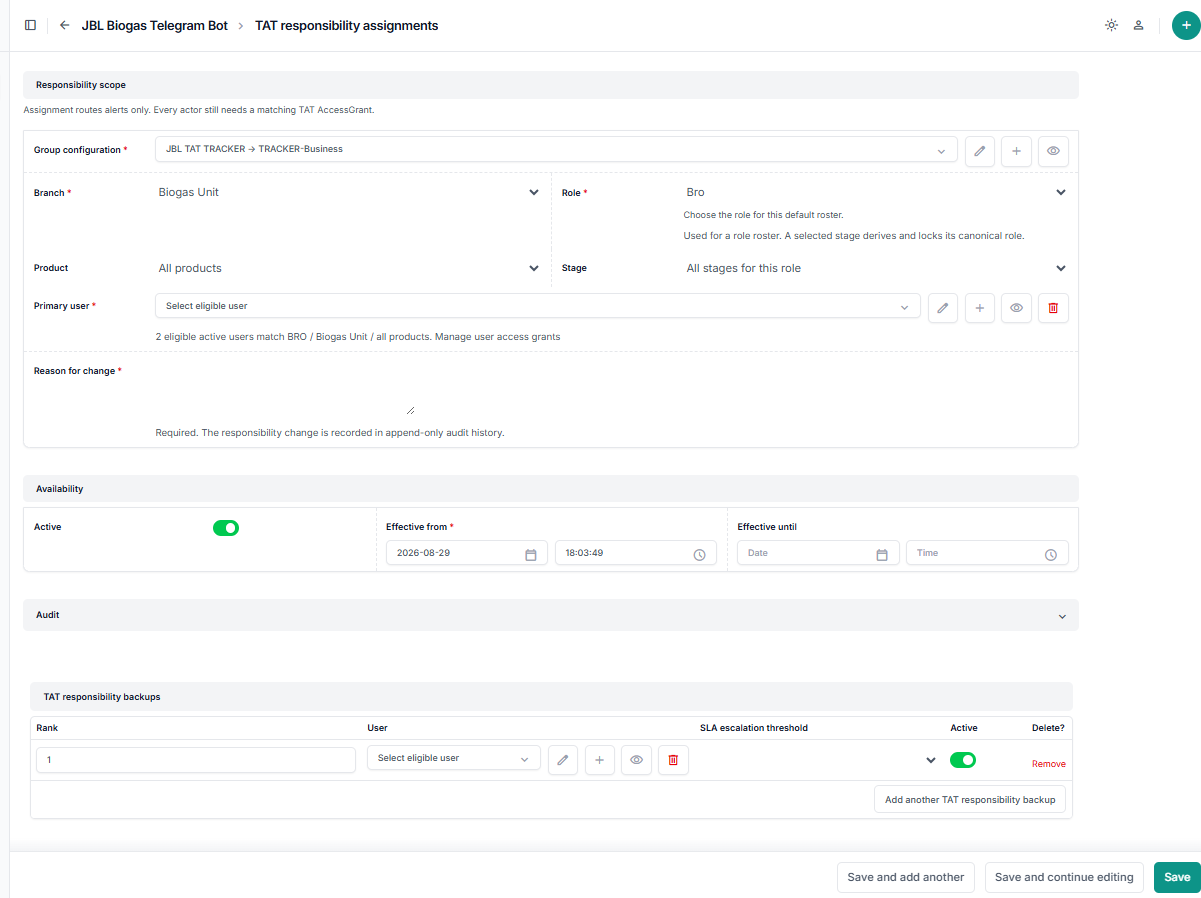
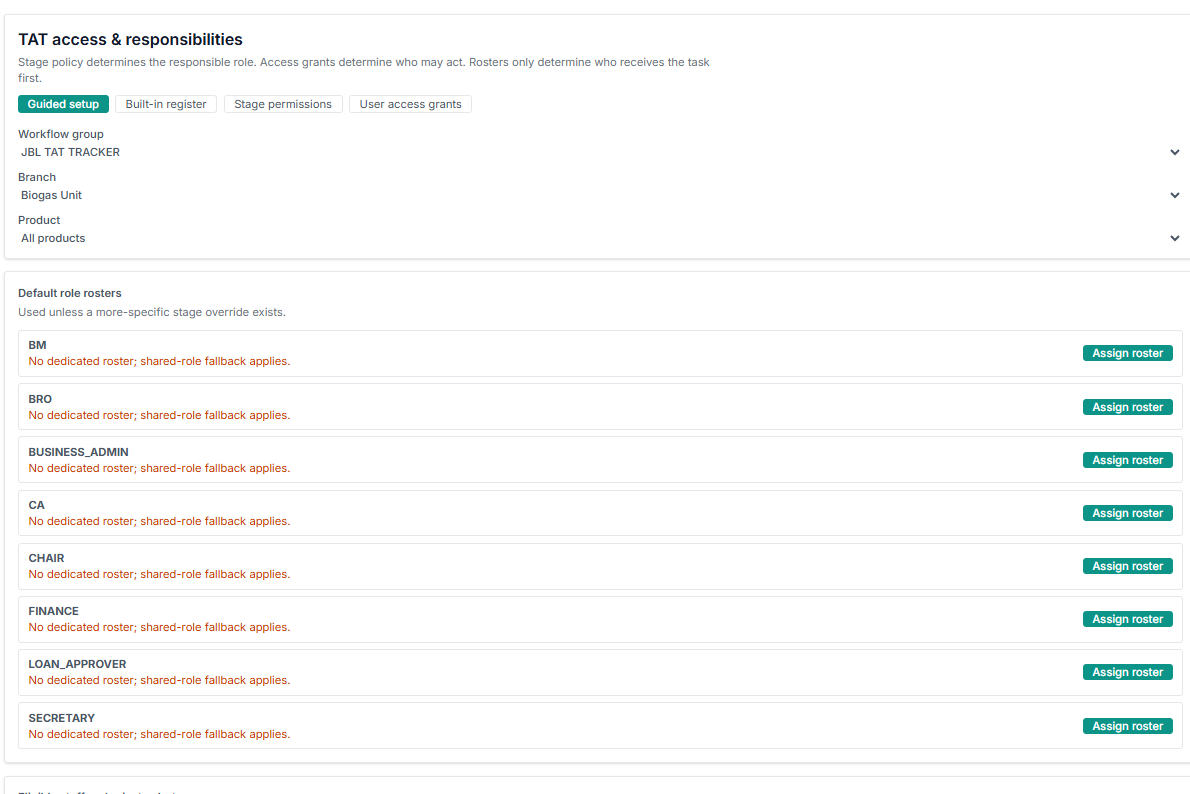
Fixed.
The first assignment was saved, but scheduled/elapsed active rosters were excluded from the workspace display. The database still saw them, causing the uniqueness error on the
  second attempt.

  Now:

  - Saved rosters immediately show the assigned primary user.
  - Status displays as Active now, Scheduled from…, or Effective period ended.
  - The action changes from Assign roster to Edit roster.
  - Saving returns to the same group/branch/product workspace.
  - Duplicate attempts show a clear message instead of the raw constraint error.

diff --git a/core/templates/admin/core/tatresponsibilityassignment/change_list.html b/core/templates/admin/core/tatresponsibilityassignment/change_list.html
@@ -61,7 +61,7 @@
         <div class="mt-3 grid gap-2">
           {% for row in responsibility_role_rows %}
             <div class="flex min-h-14 flex-wrap items-center justify-between gap-3 rounded border border-base-200 px-3 py-2 dark:border-base-700">
-              <div><strong class="block">{{ row.role }}</strong>{% if row.roster %}<span class="text-sm text-font-subtle-light dark:text-font-subtle-dark">Primary: {{ row.roster.primary_user }} · {{ row.roster.backups.count }} backup{{ row.roster.backups.count|pluralize }}</span>{% else %}<span class="text-sm text-orange-700 dark:text-orange-300">No dedicated roster; shared-role fallback applies.</span>{% endif %}</div>
+              <div><strong class="block">{{ row.role }}</strong>{% if row.roster %}<span class="text-sm text-font-subtle-light dark:text-font-subtle-dark">Primary: {{ row.roster.primary_user }} · {{ row.roster.backups.count }} backup{{ row.roster.backups.count|pluralize }}</span><span class="block text-xs {% if row.roster_state == 'Active now' %}text-green-700 dark:text-green-300{% else %}text-orange-700 dark:text-orange-300{% endif %}">{{ row.roster_state }}</span>{% else %}<span class="text-sm text-orange-700 dark:text-orange-300">No dedicated roster; shared-role fallback applies.</span>{% endif %}</div>
               {% if row.roster %}<a href="{% url 'admin:core_tatresponsibilityassignment_change' row.roster.pk %}" class="inline-flex min-h-10 items-center rounded border px-3 text-sm">Edit roster</a>{% else %}<a href="{{ row.add_url }}" class="inline-flex min-h-10 items-center rounded bg-primary-600 px-3 text-sm font-medium text-white">Assign roster</a>{% endif %}
             </div>
           {% empty %}<p class="text-sm text-font-subtle-light dark:text-font-subtle-dark">Choose a configured TAT workflow group.</p>{% endfor %}

diff --git a/core/admin.py b/core/admin.py
@@ -2346,6 +2346,25 @@ class TatResponsibilityAssignmentForm(forms.ModelForm):
                 workflow=group.workflow,
             )
             self.instance.role = cleaned['role']
+
+        branch = str(cleaned.get('branch') or '').strip()
+        role = str(cleaned.get('role') or '').strip().upper()
+        product_key = str(cleaned.get('product_key') or '').strip().lower()
+        stage_key = str(cleaned.get('stage_key') or '').strip()
+        if group and branch and role:
+            duplicate = TatResponsibilityAssignment.objects.filter(
+                group_configuration=group,
+                branch=branch,
+                role=role,
+                product_key=product_key,
+                stage_key=stage_key,
+                active=True,
+            ).exclude(pk=self.instance.pk).first()
+            if duplicate:
+                raise forms.ValidationError(
+                    'An active roster already exists for this exact role and scope. '
+                    'Return to TAT access & responsibilities and edit the existing roster.'
+                )
         return cleaned
 
     class Media:
@@ -2799,6 +2818,26 @@ class TatResponsibilityAssignmentAdmin(CompactModelAdmin):
                 initial[key] = request.GET[key]
         return initial
 
+    def _workspace_redirect(self, obj):
+        params = {
+            'workspace_group': obj.group_configuration_id,
+            'workspace_branch': obj.branch,
+            'workspace_product': obj.product_key,
+        }
+        return HttpResponseRedirect(
+            f"{reverse('admin:core_tatresponsibilityassignment_changelist')}?{urlencode(params)}"
+        )
+
+    def response_add(self, request, obj, post_url_continue=None):
+        if '_continue' not in request.POST and '_addanother' not in request.POST:
+            return self._workspace_redirect(obj)
+        return super().response_add(request, obj, post_url_continue=post_url_continue)
+
+    def response_change(self, request, obj):
+        if '_continue' not in request.POST and '_addanother' not in request.POST:
+            return self._workspace_redirect(obj)
+        return super().response_change(request, obj)
+
     def changelist_view(self, request, extra_context=None):
         groups = list(GroupSheetConfiguration.objects.filter(
             workflow__type='tat_tracker', enabled=True,
@@ -2826,18 +2865,16 @@ class TatResponsibilityAssignmentAdmin(CompactModelAdmin):
             ).select_related('group_configuration', 'primary_user').prefetch_related('backups__user')
         scoped_assignments = [row for row in assignments if not branch or row.branch.casefold() == branch.casefold()]
         workspace_now = timezone.now()
-        current_assignments = [
-            row for row in scoped_assignments
-            if row.active
-            and row.effective_from <= workspace_now
-            and (row.effective_until is None or row.effective_until > workspace_now)
-        ]
+        active_assignments = [row for row in scoped_assignments if row.active]
+        # Uniqueness covers every active row, including scheduled or elapsed
+        # effective windows. Show those rows instead of offering a duplicate
+        # assignment that the database must reject.
         role_rosters = {
-            (row.role, row.product_key): row for row in current_assignments
+            (row.role, row.product_key): row for row in active_assignments
             if not row.stage_key
         }
         stage_overrides = {
-            (row.stage_key, row.product_key): row for row in current_assignments
+            (row.stage_key, row.product_key): row for row in active_assignments
             if row.stage_key
         }
         role_rows = []
@@ -2849,9 +2886,18 @@ class TatResponsibilityAssignmentAdmin(CompactModelAdmin):
                 'product_key': product_key,
                 'role': role,
             }
+            if roster and roster.effective_from > workspace_now:
+                roster_state = f'Scheduled from {timezone.localtime(roster.effective_from):%d %b %Y %H:%M}'
+            elif roster and roster.effective_until and roster.effective_until <= workspace_now:
+                roster_state = 'Effective period ended; deactivate or update this active roster.'
+            elif roster:
+                roster_state = 'Active now'
+            else:
+                roster_state = ''
             role_rows.append({
                 'role': role,
                 'roster': roster,
+                'roster_state': roster_state,
                 'add_url': f"{reverse('admin:core_tatresponsibilityassignment_add')}?{urlencode(params)}",
             })
         for row in catalogue:

diff --git a/core/tests_tat_notifications.py b/core/tests_tat_notifications.py
@@ -234,6 +234,58 @@ class TatPrivateTaskTests(TestCase):
         self.assertContains(response, 'mpesa_to_admin')
         self.assertContains(response, 'primary')
 
+    def test_workspace_projects_scheduled_active_roster_instead_of_offering_duplicate(self):
+        superuser = get_user_model().objects.create_superuser(
+            username='scheduled-workspace-admin', password='test-password',
+            email='scheduled-workspace@example.test',
+        )
+        self.assignment.effective_from = timezone.now() + timedelta(days=1)
+        self.assignment.save(update_fields=['effective_from'])
+        self.client.force_login(superuser)
+
+        response = self.client.get(reverse('admin:core_tatresponsibilityassignment_changelist'), {
+            'workspace_group': str(self.group.pk),
+            'workspace_branch': 'Nakuru',
+            'workspace_product': '',
+        })
+
+        bro_row = next(row for row in response.context['responsibility_role_rows'] if row['role'] == 'BRO')
+        self.assertEqual(bro_row['roster'], self.assignment)
+        self.assertTrue(bro_row['roster_state'].startswith('Scheduled from'))
+        self.assertContains(response, 'Edit roster')
+
+    def test_duplicate_active_roster_has_plain_language_form_error(self):
+        superuser = get_user_model().objects.create_superuser(
+            username='duplicate-roster-admin', password='test-password',
+            email='duplicate-roster@example.test',
+        )
+        self.client.force_login(superuser)
+        effective = timezone.localtime()
+
+        response = self.client.post(reverse('admin:core_tatresponsibilityassignment_add'), {
+            'group_configuration': str(self.group.pk),
+            'branch': 'Nakuru',
+            'role': 'BRO',
+            'product_key': '',
+            'stage_key': '',
+            'primary_user': str(self.primary.pk),
+            'change_reason': 'Attempted duplicate for regression coverage.',
+            'active': 'on',
+            'effective_from_0': effective.date().isoformat(),
+            'effective_from_1': effective.time().replace(microsecond=0).isoformat(),
+            'backups-TOTAL_FORMS': '0',
+            'backups-INITIAL_FORMS': '0',
+            'backups-MIN_NUM_FORMS': '0',
+            'backups-MAX_NUM_FORMS': '1000',
+            '_save': 'Save',
+        })
+
+        self.assertEqual(response.status_code, 200)
+        self.assertContains(response, 'An active roster already exists for this exact role and scope.')
+        self.assertEqual(TatResponsibilityAssignment.objects.filter(
+            group_configuration=self.group, branch='Nakuru', role='BRO', active=True,
+        ).count(), 1)
+
     def test_responsibility_add_form_lists_exact_scope_users(self):
         superuser = get_user_model().objects.create_superuser(
             username='form-admin', password='test-password', email='form@example.test',
